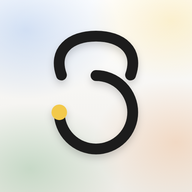
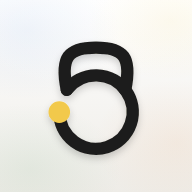
Ícono nuevo de la app (kettlebell de asa más plana) en pantalla de inicio, intro y ventanas; intro con degradados y sombras más suaves y nombre en mayúsculas con «Método» en cursiva
Claude-Session: https://claude.ai/code/session_017q9eB3jcU4JAqbgUHmF9x1

diff --git a/index.html b/index.html
@@ -46,8 +46,8 @@
     <link rel="apple-touch-startup-image" media="(device-width: 375px) and (device-height: 667px) and (-webkit-device-pixel-ratio: 2) and (orientation: portrait)" href="/arranque/arranque-750x1334.jpg" />
     <link rel="apple-touch-startup-image" media="(device-width: 414px) and (device-height: 736px) and (-webkit-device-pixel-ratio: 3) and (orientation: portrait)" href="/arranque/arranque-1242x2208.jpg" />
     <link rel="apple-touch-startup-image" media="(device-width: 320px) and (device-height: 568px) and (-webkit-device-pixel-ratio: 2) and (orientation: portrait)" href="/arranque/arranque-640x1136.jpg" />
-    <link rel="icon" type="image/png" sizes="192x192" href="/icon-192.png" />
-    <link rel="apple-touch-icon" href="/apple-touch-icon.png" />
+    <link rel="icon" type="image/png" sizes="192x192" href="/icon-192.png?v=4" />
+    <link rel="apple-touch-icon" href="/apple-touch-icon.png?v=4" />
 
     <title>Entrena con Método</title>
     <script>
@@ -301,10 +301,10 @@
          y el resto de la pantalla queda crema limpio (antes llenaban toda la
          pantalla, pálidas y con velo blanco: se veía como niebla lavada). */
       #splash2 .m { position: absolute; width: 250px; height: 220px; margin: -110px 0 0 -125px; filter: blur(26px); opacity: 0; will-change: transform, opacity; }
-      #splash2 .m1 { background: radial-gradient(closest-side, rgba(60,123,214,.62), rgba(60,123,214,0)); border-radius: 48% 52% 44% 56% / 55% 42% 58% 45%; --x: -80px; --y: -78px; --s: 1.25; }
-      #splash2 .m2 { background: radial-gradient(closest-side, rgba(242,201,76,.7), rgba(242,201,76,0)); border-radius: 56% 44% 52% 48% / 46% 56% 44% 54%; --x: 82px; --y: -74px; --s: 1.15; }
-      #splash2 .m3 { background: radial-gradient(closest-side, rgba(70,150,90,.58), rgba(70,150,90,0)); border-radius: 44% 56% 58% 42% / 52% 48% 52% 48%; --x: -80px; --y: 82px; --s: 1.25; }
-      #splash2 .m4 { background: radial-gradient(closest-side, rgba(238,132,52,.58), rgba(238,132,52,0)); border-radius: 52% 48% 46% 54% / 44% 56% 46% 54%; --x: 84px; --y: 80px; --s: 1.15; }
+      #splash2 .m1 { background: radial-gradient(closest-side, rgba(60,123,214,.30), rgba(60,123,214,0)); border-radius: 48% 52% 44% 56% / 55% 42% 58% 45%; --x: -80px; --y: -78px; --s: 1.25; }
+      #splash2 .m2 { background: radial-gradient(closest-side, rgba(242,201,76,.34), rgba(242,201,76,0)); border-radius: 56% 44% 52% 48% / 46% 56% 44% 54%; --x: 82px; --y: -74px; --s: 1.15; }
+      #splash2 .m3 { background: radial-gradient(closest-side, rgba(70,150,90,.27), rgba(70,150,90,0)); border-radius: 44% 56% 58% 42% / 52% 48% 52% 48%; --x: -80px; --y: 82px; --s: 1.25; }
+      #splash2 .m4 { background: radial-gradient(closest-side, rgba(238,132,52,.27), rgba(238,132,52,0)); border-radius: 52% 48% 46% 54% / 44% 56% 46% 54%; --x: 84px; --y: 80px; --s: 1.15; }
       #splash2 .plano { position: absolute; inset: 0; background: #F3F1EB; opacity: 0; }
       /* El piso: en algunos iPhone la pantalla útil termina unos 50 px antes
          del borde y lo que hay debajo se corta con una línea recta (se veía
@@ -330,10 +330,10 @@
          cuatro colores se reparten suaves en sus esquinas, con su luz y una
          sombra de color corta, como los blobs de las cabeceras. */
       html.intro-prueba #splash2 .dentro i { width: 118px; height: 118px; filter: blur(16px); }
-      html.intro-prueba #splash2 .dentro .d1 { left: -46px; top: -46px; background: radial-gradient(closest-side, rgba(60,123,214,.30), rgba(60,123,214,0)); }
-      html.intro-prueba #splash2 .dentro .d2 { right: -46px; top: -46px; background: radial-gradient(closest-side, rgba(242,201,76,.32), rgba(242,201,76,0)); }
-      html.intro-prueba #splash2 .dentro .d3 { left: -46px; bottom: -46px; background: radial-gradient(closest-side, rgba(70,150,90,.28), rgba(70,150,90,0)); }
-      html.intro-prueba #splash2 .dentro .d4 { right: -46px; bottom: -46px; background: radial-gradient(closest-side, rgba(238,132,52,.30), rgba(238,132,52,0)); }
+      html.intro-prueba #splash2 .dentro .d1 { left: -46px; top: -46px; background: radial-gradient(closest-side, rgba(60,123,214,.22), rgba(60,123,214,0)); }
+      html.intro-prueba #splash2 .dentro .d2 { right: -46px; top: -46px; background: radial-gradient(closest-side, rgba(242,201,76,.24), rgba(242,201,76,0)); }
+      html.intro-prueba #splash2 .dentro .d3 { left: -46px; bottom: -46px; background: radial-gradient(closest-side, rgba(70,150,90,.20), rgba(70,150,90,0)); }
+      html.intro-prueba #splash2 .dentro .d4 { right: -46px; bottom: -46px; background: radial-gradient(closest-side, rgba(238,132,52,.22), rgba(238,132,52,0)); }
       /* ── Intro (opción C, «cristal»): sobre el blob blanco va una capa de
          vidrio con la misma forma recortada (nunca un cuadrado): luz arriba a
          la izquierda, reflejo elíptico, franja de luz diagonal, sombra interna
@@ -374,7 +374,7 @@
       #splash2 .disco { position: absolute; left: 50%; top: var(--centro, 46%); width: 184px; height: 184px; margin: -92px 0 0 -92px; overflow: visible;
         filter: drop-shadow(0 22px 34px rgba(30,30,40,.14)) drop-shadow(0 3px 8px rgba(30,30,40,.05));
         opacity: 0; transform: rotate(-12deg) scale(.55); will-change: transform, opacity; }
-      html.intro-prueba #splash2 .disco { filter: drop-shadow(0 18px 30px rgba(60,123,214,.13)) drop-shadow(0 10px 22px rgba(238,132,52,.10)) drop-shadow(0 2px 4px rgba(30,30,40,.06)); }
+      html.intro-prueba #splash2 .disco { filter: drop-shadow(0 10px 18px rgba(60,123,214,.07)) drop-shadow(0 6px 14px rgba(238,132,52,.05)) drop-shadow(0 2px 4px rgba(30,30,40,.05)); }
       html.intro-prueba #splash2 .escena { transform: scale(.76); }
       html.intro-prueba body.app-ready #splash2 .escena { transform: scale(.9); }
       #splash2 .escena3d { position: absolute; left: 50%; top: var(--centro, 46%); width: 120px; height: 120px; margin: -60px 0 0 -60px; perspective: 500px; }
@@ -430,12 +430,12 @@
          reflejo (se probó y se quitó). Entran con la secuencia y se van con
          todo lo demás (body.app-ready). */
       #splash2 .op-sb, #splash2 .op-st { display: none; }
-      html.intro-prueba #splash2 .op-sb { display: block; position: absolute; left: 50%; top: calc(60px + var(--centro, 46%) + 67px); width: 157px; height: 22px; margin-left: -78px; border-radius: 50%; background: radial-gradient(closest-side, rgba(31,31,31,.32), rgba(31,31,31,0)); filter: blur(4px); opacity: 0; }
-      html.intro-prueba #splash2 .op-st { display: block; position: absolute; z-index: 2; left: 50%; top: calc(60px + var(--centro, 46%) + 112px); width: 233px; height: 16px; margin-left: -117px; border-radius: 50%; background: radial-gradient(closest-side, rgba(31,31,31,.22), rgba(31,31,31,0)); filter: blur(5px); opacity: 0; }
+      html.intro-prueba #splash2 .op-sb { display: block; position: absolute; left: 50%; top: calc(60px + var(--centro, 46%) + 60px); width: 112px; height: 16px; margin-left: -56px; border-radius: 50%; background: radial-gradient(closest-side, rgba(31,31,31,.18), rgba(31,31,31,0)); filter: blur(4px); opacity: 0; }
+      html.intro-prueba #splash2 .op-st { display: block; position: absolute; z-index: 2; left: 50%; top: calc(60px + var(--centro, 46%) + 112px); width: 200px; height: 16px; margin-left: -100px; border-radius: 50%; background: radial-gradient(closest-side, rgba(31,31,31,.09), rgba(31,31,31,0)); filter: blur(7px); opacity: 0; }
       html.intro-prueba.intro-anda #splash2 .op-sb { animation: s2aparece .7s ease .7s forwards; }
       html.intro-prueba.intro-anda #splash2 .op-st { animation: s2aparece .9s ease 1.3s forwards; }
       html.intro-prueba.intro-anda #splash2 .nombre { animation: s2sombraNombre .9s ease 1.3s forwards; }
-      @keyframes s2sombraNombre { from { filter: drop-shadow(0 3px 3px rgba(31,31,31,0)); } to { filter: drop-shadow(0 3px 3px rgba(31,31,31,.14)); } }
+      @keyframes s2sombraNombre { from { filter: drop-shadow(0 2px 3px rgba(31,31,31,0)); } to { filter: drop-shadow(0 2px 3px rgba(31,31,31,.06)); } }
       /* El nombre, un punto más grande y con el trazo más liviano (el borde
          del color del fondo le quita medio pelo al contorno). */
       html.intro-prueba #splash2 .nombre { transform: translateY(-22px) scale(.55); }
@@ -535,11 +535,11 @@
         <div class="escena3d"><svg class="marca" viewBox="0 0 512 512" fill="none" aria-hidden="true"><defs>
           <linearGradient id="s2t" x1="0" y1="0" x2="0" y2="1"><stop offset="0" stop-color="#3B3A37"/><stop offset="1" stop-color="#1F1E1C"/></linearGradient>
 </defs>
-          <g transform="translate(256 262) scale(.9) translate(-256 -248)" fill="none" stroke="url(#s2t)" stroke-width="40" stroke-linecap="round">
-            <path class="traza t1" pathLength="100" d="M128 162 C96 72 160 18 256 18 C352 18 416 72 384 162"/><path class="traza t2" pathLength="100" d="M256 164 A136 136 0 1 1 120 300"/></g>
-          <g transform="translate(256 262) scale(.9) translate(-256 -248)">
-            <circle class="halo" cx="120" cy="300" r="28.8" fill="#F2C94C"/>
-            <circle class="punto" cx="120" cy="300" r="28.8" fill="#F2C94C"/></g></svg></div>
+          <g transform="translate(256 262) scale(0.900) translate(-256 -248.7)" fill="none" stroke="url(#s2t)" stroke-width="46" stroke-linecap="round">
+            <path class="traza t1" pathLength="100" d="M148.0 217.3 C122.7 96.0 153.1 61.3 256 61.3 C358.9 61.3 389.3 96.0 364.0 217.3"/><path class="traza t2" pathLength="100" d="M148.0 217.3 A136 136 0 1 1 120.0 300.0"/></g>
+          <g transform="translate(256 262) scale(0.900) translate(-256 -248.7)">
+            <circle class="halo" cx="120.0" cy="300.0" r="40" fill="#F2C94C"/>
+            <circle class="punto" cx="120.0" cy="300.0" r="40" fill="#F2C94C"/></g></svg></div>
       </div>
       <!-- El piso va FUERA de .escena: .escena lleva will-change: transform y
            eso atrapa a cualquier fixed de adentro (quedaba 200 px por debajo
@@ -548,7 +548,7 @@
            una vez): no es texto. No depende de ninguna fuente ni de los
            ajustes de texto de la app, que al cargarse lo redibujaban más
            grueso y movido por un instante. Dibuja como el blob: geometría. -->
-      <svg class="nombre" viewBox="0 0 390 100" width="390" height="100" role="img" aria-label="Entrena con Método"><g class="linea l1" transform="translate(12.25 34.80)"><path fill="#1D1D1F" d="M2.72 0V-28H20.95V-22.1H9.15V-16.98H19.03V-11.23H9.15V-5.9H21.18V0Z M24.14 0V-20H30.02L30.27 -17.42Q31.24 -18.9 32.69 -19.69Q34.14 -20.48 35.93 -20.48Q38.34 -20.48 39.98 -19.51Q41.62 -18.54 42.44 -16.53Q43.27 -14.52 43.26 -11.38V0H37.02V-10.24Q37.02 -11.83 36.66 -12.77Q36.3 -13.7 35.63 -14.15Q34.96 -14.59 34.02 -14.62Q32.23 -14.69 31.3 -13.66Q30.38 -12.63 30.38 -10.57V0Z M54.25 0.48Q50.72 0.48 48.97 -1.22Q47.22 -2.92 47.22 -6.08V-14.76H44.1V-20H47.22V-26.24H53.46V-20H58.02V-14.76H53.46V-7.65Q53.46 -6.43 53.9 -5.87Q54.34 -5.3 55.27 -5.3Q55.62 -5.3 56.1 -5.49Q56.58 -5.68 56.98 -5.96L59.13 -1.38Q58.18 -0.62 56.85 -0.07Q55.52 0.48 54.25 0.48Z M60.81 0V-20H67.05V-16.29Q68.3 -18.17 70.21 -19.12Q72.11 -20.08 74.13 -20.08V-14.01Q72.27 -14.01 70.65 -13.61Q69.03 -13.22 68.04 -12.38Q67.05 -11.54 67.05 -10.27V0Z M84.91 0.48Q81.81 0.48 79.41 -0.85Q77.01 -2.18 75.65 -4.54Q74.29 -6.9 74.29 -10Q74.29 -13.1 75.66 -15.46Q77.03 -17.82 79.44 -19.15Q81.85 -20.48 84.99 -20.48Q87.85 -20.48 90.13 -19.12Q92.41 -17.76 93.75 -15.07Q95.09 -12.38 95.09 -8.4H80.77Q80.97 -6.66 82.18 -5.64Q83.39 -4.62 85.09 -4.62Q86.57 -4.62 87.58 -5.28Q88.59 -5.94 88.99 -6.96L94.51 -5.06Q93.73 -3.18 92.27 -1.94Q90.81 -0.7 88.92 -0.11Q87.03 0.48 84.91 0.48ZM80.93 -12.56H88.57Q88.41 -13.74 87.81 -14.44Q87.21 -15.14 86.41 -15.45Q85.61 -15.76 84.81 -15.76Q84.03 -15.76 83.2 -15.46Q82.37 -15.16 81.74 -14.46Q81.11 -13.76 80.93 -12.56Z M96.33 0V-20H102.22L102.46 -17.42Q103.43 -18.9 104.88 -19.69Q106.33 -20.48 108.12 -20.48Q110.54 -20.48 112.17 -19.51Q113.81 -18.54 114.64 -16.53Q115.46 -14.52 115.46 -11.38V0H109.22V-10.24Q109.22 -11.83 108.85 -12.77Q108.49 -13.7 107.82 -14.15Q107.15 -14.59 106.21 -14.62Q104.42 -14.69 103.5 -13.66Q102.57 -12.63 102.57 -10.57V0Z M124.28 0.48Q120.74 0.48 118.78 -1.11Q116.82 -2.7 116.82 -5.64Q116.82 -8.8 118.86 -10.36Q120.9 -11.92 124.58 -11.92H129.46Q129.26 -13.5 128.52 -14.4Q127.78 -15.3 126.14 -15.3Q125 -15.3 124.16 -14.78Q123.32 -14.26 122.74 -13.36L117.28 -15.16Q117.98 -16.62 119.15 -17.83Q120.32 -19.04 122.04 -19.76Q123.76 -20.48 126.06 -20.48Q129.18 -20.48 131.33 -19.32Q133.48 -18.16 134.57 -16.07Q135.66 -13.98 135.64 -11.16L135.58 0H129.74L129.66 -2.04Q128.84 -0.8 127.48 -0.16Q126.12 0.48 124.28 0.48ZM125.66 -4.24Q126.8 -4.24 127.68 -4.72Q128.56 -5.2 129.06 -6.02Q129.56 -6.84 129.56 -7.8V-7.9H126.92Q124.92 -7.9 124.04 -7.35Q123.16 -6.8 123.16 -5.8Q123.16 -5.06 123.82 -4.65Q124.48 -4.24 125.66 -4.24Z M155.95 0.48Q152.75 0.48 150.26 -0.86Q147.76 -2.2 146.36 -4.58Q144.96 -6.95 144.96 -10Q144.96 -13.08 146.36 -15.44Q147.76 -17.8 150.22 -19.14Q152.68 -20.48 155.87 -20.48Q158.96 -20.48 161.52 -18.92Q164.07 -17.35 165.2 -14.41L159.28 -12.39Q158.84 -13.38 157.82 -13.99Q156.8 -14.6 155.55 -14.6Q154.32 -14.6 153.38 -14.02Q152.44 -13.44 151.9 -12.4Q151.36 -11.35 151.36 -10Q151.36 -8.65 151.9 -7.62Q152.44 -6.59 153.42 -6Q154.4 -5.4 155.63 -5.4Q156.86 -5.4 157.87 -6.04Q158.88 -6.67 159.34 -7.7L165.27 -5.72Q164.13 -2.74 161.59 -1.13Q159.05 0.48 155.95 0.48Z M176.18 0.48Q173.04 0.48 170.63 -0.86Q168.21 -2.2 166.84 -4.56Q165.47 -6.92 165.47 -10Q165.47 -13.08 166.82 -15.44Q168.17 -17.8 170.58 -19.14Q173 -20.48 176.09 -20.48Q179.22 -20.48 181.64 -19.14Q184.05 -17.8 185.4 -15.44Q186.76 -13.08 186.76 -10Q186.76 -6.92 185.41 -4.56Q184.06 -2.2 181.66 -0.86Q179.27 0.48 176.18 0.48ZM176.17 -5.27Q177.41 -5.27 178.34 -5.88Q179.28 -6.48 179.82 -7.54Q180.36 -8.61 180.36 -10Q180.36 -11.39 179.82 -12.46Q179.28 -13.52 178.31 -14.12Q177.34 -14.73 176.1 -14.73Q174.86 -14.73 173.91 -14.12Q172.95 -13.52 172.41 -12.46Q171.87 -11.4 171.87 -10.01Q171.87 -8.62 172.41 -7.56Q172.96 -6.5 173.93 -5.88Q174.91 -5.27 176.17 -5.27Z M188.4 0V-20H194.28L194.53 -17.42Q195.5 -18.9 196.95 -19.69Q198.4 -20.48 200.19 -20.48Q202.6 -20.48 204.24 -19.51Q205.88 -18.54 206.7 -16.53Q207.53 -14.52 207.52 -11.38V0H201.28V-10.24Q201.28 -11.83 200.92 -12.77Q200.56 -13.7 199.89 -14.15Q199.22 -14.59 198.28 -14.62Q196.49 -14.69 195.56 -13.66Q194.64 -12.63 194.64 -10.57V0Z"/></g><g class="linea metodo l2" transform="translate(232 34.80)"><path fill="#1D1D1F" d="M2.72 0V-28H9.79L17.26 -16.96L24.71 -28H31.78V0H25.35V-18L17.28 -6.17L9.15 -17.98V0Z M44.72 0.48Q41.62 0.48 39.22 -0.85Q36.82 -2.18 35.46 -4.54Q34.1 -6.9 34.1 -10Q34.1 -13.1 35.47 -15.46Q36.84 -17.82 39.25 -19.15Q41.66 -20.48 44.8 -20.48Q47.66 -20.48 49.94 -19.12Q52.22 -17.76 53.56 -15.07Q54.9 -12.38 54.9 -8.4H40.58Q40.78 -6.66 41.99 -5.64Q43.2 -4.62 44.9 -4.62Q46.38 -4.62 47.39 -5.28Q48.4 -5.94 48.8 -6.96L54.32 -5.06Q53.54 -3.18 52.08 -1.94Q50.62 -0.7 48.73 -0.11Q46.84 0.48 44.72 0.48ZM40.74 -12.56H48.38Q48.22 -13.74 47.62 -14.44Q47.02 -15.14 46.22 -15.45Q45.42 -15.76 44.62 -15.76Q43.84 -15.76 43.01 -15.46Q42.18 -15.16 41.55 -14.46Q40.92 -13.76 40.74 -12.56ZM41.17 -22.32 45.64 -28H52.4L47.22 -22.32Z M64.78 0.48Q61.26 0.48 59.5 -1.22Q57.75 -2.92 57.75 -6.08V-14.76H54.64V-20H57.75V-26.24H63.99V-20H68.56V-14.76H63.99V-7.65Q63.99 -6.43 64.43 -5.87Q64.87 -5.3 65.81 -5.3Q66.16 -5.3 66.64 -5.49Q67.11 -5.68 67.51 -5.96L69.66 -1.38Q68.71 -0.62 67.38 -0.07Q66.06 0.48 64.78 0.48Z M81.01 0.48Q77.88 0.48 75.46 -0.86Q73.05 -2.2 71.68 -4.56Q70.3 -6.92 70.3 -10Q70.3 -13.08 71.65 -15.44Q73 -17.8 75.42 -19.14Q77.83 -20.48 80.92 -20.48Q84.06 -20.48 86.47 -19.14Q88.89 -17.8 90.24 -15.44Q91.59 -13.08 91.59 -10Q91.59 -6.92 90.24 -4.56Q88.89 -2.2 86.5 -0.86Q84.1 0.48 81.01 0.48ZM81.01 -5.27Q82.24 -5.27 83.18 -5.88Q84.12 -6.48 84.65 -7.54Q85.19 -8.61 85.19 -10Q85.19 -11.39 84.65 -12.46Q84.11 -13.52 83.15 -14.12Q82.18 -14.73 80.94 -14.73Q79.7 -14.73 78.74 -14.12Q77.79 -13.52 77.24 -12.46Q76.7 -11.4 76.7 -10.01Q76.7 -8.62 77.25 -7.56Q77.79 -6.5 78.77 -5.88Q79.75 -5.27 81.01 -5.27Z M101.23 0.48Q98.43 0.48 96.41 -0.78Q94.38 -2.04 93.29 -4.4Q92.19 -6.77 92.19 -10Q92.19 -13.27 93.29 -15.62Q94.38 -17.96 96.41 -19.22Q98.43 -20.48 101.23 -20.48Q103.1 -20.48 104.53 -19.75Q105.97 -19.02 106.9 -17.64V-28H113.14V0H107.21L107.02 -2.52Q106.1 -1.08 104.63 -0.3Q103.16 0.48 101.23 0.48ZM102.86 -5.26Q103.98 -5.26 104.86 -5.8Q105.73 -6.33 106.26 -7.3Q106.8 -8.26 106.9 -9.48V-10.51Q106.8 -11.74 106.26 -12.69Q105.73 -13.64 104.84 -14.17Q103.95 -14.7 102.82 -14.7Q101.64 -14.7 100.7 -14.11Q99.75 -13.51 99.22 -12.45Q98.69 -11.38 98.69 -10Q98.69 -8.62 99.24 -7.55Q99.79 -6.49 100.74 -5.88Q101.68 -5.26 102.86 -5.26Z M125.49 0.48Q122.35 0.48 119.93 -0.86Q117.52 -2.2 116.15 -4.56Q114.78 -6.92 114.78 -10Q114.78 -13.08 116.13 -15.44Q117.47 -17.8 119.89 -19.14Q122.31 -20.48 125.4 -20.48Q128.53 -20.48 130.94 -19.14Q133.36 -17.8 134.71 -15.44Q136.06 -13.08 136.06 -10Q136.06 -6.92 134.71 -4.56Q133.36 -2.2 130.97 -0.86Q128.58 0.48 125.49 0.48ZM125.48 -5.27Q126.71 -5.27 127.65 -5.88Q128.59 -6.48 129.13 -7.54Q129.66 -8.61 129.66 -10Q129.66 -11.39 129.12 -12.46Q128.58 -13.52 127.62 -14.12Q126.65 -14.73 125.41 -14.73Q124.17 -14.73 123.21 -14.12Q122.26 -13.52 121.72 -12.46Q121.18 -11.4 121.18 -10.01Q121.18 -8.62 121.72 -7.56Q122.26 -6.5 123.24 -5.88Q124.22 -5.27 125.48 -5.27Z"/><path class="pto" fill="#EDB929" d="M141.01 0.59Q139.51 0.59 138.43 -0.49Q137.34 -1.58 137.34 -3.07Q137.34 -4.57 138.43 -5.65Q139.51 -6.74 141.01 -6.74Q142.5 -6.74 143.59 -5.65Q144.67 -4.57 144.67 -3.07Q144.67 -1.58 143.59 -0.49Q142.5 0.59 141.01 0.59Z"/></g></svg>
+      <svg class="nombre" viewBox="0 0 390 100" width="390" height="100" role="img" aria-label="Entrena con Método"><g class="linea l1"><path fill="#1D1D1F" d="M2.01 34.8V12.4H16.6V17.14H7.16V21.23H15.06V25.81H7.16V30.06H16.76V34.8Z M20.79 34.8V12.4H26.2L36.02 26.06V12.4H41.18V34.8H36.02L25.94 20.75V34.8Z M50.39 34.8V17.14H43.86V12.4H62.04V17.14H55.51V34.8Z M64.7 34.8V12.4H73.5Q75.93 12.4 77.82 13.34Q79.7 14.29 80.78 15.97Q81.85 17.65 81.85 19.82Q81.85 22.03 80.71 23.74Q79.58 25.46 77.69 26.35L82.74 34.8H76.86L72.57 27.28Q72.38 27.28 72.17 27.28Q71.96 27.28 71.77 27.28H69.85V34.8ZM69.85 22.54H73.34Q74.23 22.54 74.94 22.19Q75.64 21.84 76.04 21.22Q76.44 20.59 76.44 19.82Q76.44 18.64 75.56 17.87Q74.68 17.1 73.24 17.1H69.85Z M85.62 34.8V12.4H100.22V17.14H90.78V21.23H98.68V25.81H90.78V30.06H100.38V34.8Z M104.41 34.8V12.4H109.82L119.64 26.06V12.4H124.79V34.8H119.64L109.56 20.75V34.8Z M127.22 34.8 135.93 12.4H141.43L150.14 34.8H144.7L143.06 30.54H134.3L132.66 34.8ZM135.96 26H141.37L138.68 18.83Z M170.17 35.18Q166.84 35.18 164.3 33.7Q161.75 32.21 160.3 29.6Q158.84 26.99 158.84 23.6Q158.84 20.21 160.3 17.6Q161.75 14.99 164.3 13.5Q166.84 12.02 170.17 12.02Q172.6 12.02 174.63 12.86Q176.66 13.71 178.15 15.25Q179.64 16.78 180.44 18.8L175.61 20.43Q175.13 19.31 174.31 18.48Q173.5 17.65 172.46 17.2Q171.42 16.75 170.17 16.75Q168.41 16.75 167.03 17.62Q165.66 18.48 164.89 20.03Q164.12 21.58 164.12 23.6Q164.12 25.62 164.9 27.17Q165.69 28.72 167.08 29.6Q168.47 30.48 170.26 30.48Q171.58 30.48 172.6 30Q173.62 29.52 174.38 28.66Q175.13 27.79 175.67 26.67L180.5 28.3Q179.74 30.35 178.23 31.9Q176.73 33.46 174.68 34.32Q172.63 35.18 170.17 35.18Z M193.88 35.18Q190.42 35.18 187.77 33.7Q185.11 32.21 183.61 29.6Q182.1 26.99 182.1 23.63Q182.1 20.24 183.61 17.63Q185.11 15.02 187.75 13.54Q190.39 12.05 193.82 12.05Q197.24 12.05 199.88 13.54Q202.52 15.02 204.02 17.63Q205.53 20.24 205.53 23.63Q205.53 26.99 204.04 29.6Q202.55 32.21 199.93 33.7Q197.3 35.18 193.88 35.18ZM193.88 30.45Q195.77 30.45 197.21 29.58Q198.65 28.72 199.45 27.17Q200.25 25.62 200.25 23.63Q200.25 21.62 199.42 20.06Q198.58 18.51 197.14 17.63Q195.7 16.75 193.82 16.75Q191.93 16.75 190.49 17.63Q189.05 18.51 188.22 20.06Q187.38 21.62 187.38 23.63Q187.38 25.62 188.22 27.17Q189.05 28.72 190.52 29.58Q191.99 30.45 193.88 30.45Z M208.66 34.8V12.4H214.07L223.9 26.06V12.4H229.05V34.8H223.9L213.82 20.75V34.8Z"/></g><g class="linea metodo l2"><path fill="#1D1D1F" d="M239.29 34.8 243.03 12.4H249.53L253.66 20.4L260.34 12.4H266.97L263.22 34.8H257.3L259.48 21.74L252.18 30.32L247.45 21.39L245.21 34.8Z M267.06 34.8 270.81 12.4H285.82L284.92 17.84H275.83L275.29 20.94H282.68L281.78 26.22H274.42L273.88 29.36H283.22L282.3 34.8ZM274.94 10.67 278.46 6H284.54L280.38 10.67Z M290.78 34.8 293.62 17.84H287.29L288.18 12.4H306.74L305.85 17.84H299.54L296.7 34.8Z M317.56 35.18Q314.84 35.18 312.58 34.27Q310.33 33.36 308.78 31.68Q307.22 30 306.57 27.71Q305.91 25.42 306.39 22.64Q306.94 19.44 308.7 17.06Q310.46 14.67 313.1 13.34Q315.74 12.02 318.9 12.02Q321.62 12.02 323.86 12.93Q326.1 13.84 327.66 15.52Q329.21 17.2 329.86 19.52Q330.52 21.84 330.04 24.62Q329.53 27.76 327.77 30.14Q326.01 32.53 323.37 33.86Q320.73 35.18 317.56 35.18ZM317.82 29.74Q319.38 29.74 320.68 29.04Q321.98 28.34 322.86 27.07Q323.74 25.81 324.02 24.11Q324.34 22.19 323.74 20.69Q323.13 19.18 321.8 18.34Q320.47 17.49 318.65 17.49Q317.08 17.49 315.77 18.19Q314.46 18.9 313.58 20.18Q312.7 21.46 312.41 23.15Q312.09 25.07 312.71 26.56Q313.34 28.05 314.66 28.9Q315.99 29.74 317.82 29.74Z M331.06 34.8 334.81 12.4H342.3Q345.91 12.43 348.5 13.94Q351.1 15.44 352.3 18.02Q353.5 20.59 352.92 23.95Q352.54 26.35 351.29 28.34Q350.04 30.32 348.14 31.76Q346.23 33.2 343.78 34Q341.34 34.8 338.55 34.8ZM337.91 29.2H339.29Q340.7 29.2 341.99 28.77Q343.29 28.34 344.33 27.54Q345.37 26.74 346.06 25.65Q346.74 24.56 346.97 23.25Q347.22 21.68 346.62 20.51Q346.01 19.34 344.66 18.67Q343.32 18 341.37 18H339.8Z M365.91 35.18Q363.19 35.18 360.94 34.27Q358.68 33.36 357.13 31.68Q355.58 30 354.92 27.71Q354.26 25.42 354.74 22.64Q355.29 19.44 357.05 17.06Q358.81 14.67 361.45 13.34Q364.09 12.02 367.26 12.02Q369.98 12.02 372.22 12.93Q374.46 13.84 376.01 15.52Q377.56 17.2 378.22 19.52Q378.87 21.84 378.39 24.62Q377.88 27.76 376.12 30.14Q374.36 32.53 371.72 33.86Q369.08 35.18 365.91 35.18ZM366.17 29.74Q367.74 29.74 369.03 29.04Q370.33 28.34 371.21 27.07Q372.09 25.81 372.38 24.11Q372.7 22.19 372.09 20.69Q371.48 19.18 370.15 18.34Q368.82 17.49 367 17.49Q365.43 17.49 364.12 18.19Q362.81 18.9 361.93 20.18Q361.05 21.46 360.76 23.15Q360.44 25.07 361.06 26.56Q361.69 28.05 363.02 28.9Q364.34 29.74 366.17 29.74Z"/><path class="pto" fill="#EDB929" d="M380.76 30.10a4.70 4.70 0 1 0 9.41 0a4.70 4.70 0 1 0 -9.41 0Z"/></g></svg>
       <div class="op-st"></div>
       <div class="piso"></div>
       <script>

diff --git a/src/VentanaMarca.jsx b/src/VentanaMarca.jsx
@@ -60,10 +60,10 @@ export function IconoApp({ tam = 96 }) {
         <linearGradient id="vm-t" x1="0" y1="0" x2="0" y2="1"><stop offset="0" stopColor="#3B3A37" /><stop offset="1" stopColor="#1F1E1C" /></linearGradient>
         <filter id="vm-s" x="-30%" y="-30%" width="160%" height="170%"><feDropShadow dx="0" dy="14" stdDeviation="14" floodColor="#000" floodOpacity=".16" /></filter>
       </defs>
-      <g transform="translate(256 262) scale(0.9) translate(-256 -248)" fill="none" filter="url(#vm-s)">
-        <path className="vm-traza" d="M128 162 C96 72 160 18 256 18 C352 18 416 72 384 162" pathLength="100" stroke="url(#vm-t)" strokeWidth="40" strokeLinecap="round" />
-        <path className="vm-traza" d="M256 164 A136 136 0 1 1 120 300" pathLength="100" stroke="url(#vm-t)" strokeWidth="40" strokeLinecap="round" />
-        <circle className="vm-punto" cx="120" cy="300" r="28.8" fill={AMARILLO} />
+      <g transform="translate(256 262) scale(0.900) translate(-256 -248.7)" fill="none" filter="url(#vm-s)">
+        <path className="vm-traza" d="M148.0 217.3 C122.7 96.0 153.1 61.3 256 61.3 C358.9 61.3 389.3 96.0 364.0 217.3" pathLength="100" stroke="url(#vm-t)" strokeWidth="46" strokeLinecap="round" />
+        <path className="vm-traza" d="M148.0 217.3 A136 136 0 1 1 120.0 300.0" pathLength="100" stroke="url(#vm-t)" strokeWidth="46" strokeLinecap="round" />
+        <circle className="vm-punto" cx="120.0" cy="300.0" r="40" fill={AMARILLO} />
       </g>
     </svg>
   );

diff --git a/src/CuentaV2.jsx b/src/CuentaV2.jsx
@@ -292,7 +292,7 @@ export default function CuentaV2({ nombre = null, datosAceptados = false, pendie
   } else if (paso === 'avisos') {
     v = { simbolo: I(Bell, '#C95F17'), titulo: <>Activa tus<br /><Color c="naranja">avisos.</Color></>, texto: <>Te aviso cuando <Negrita>tu coach te escriba</Negrita>, te ajuste el plan o te toque entrenar. <Negrita c="naranja">Nada de spam.</Negrita></>, cuerpo: (<>
       <div style={{ background: 'rgba(255,255,255,0.92)', borderRadius: 18, padding: '11px 13px', display: 'flex', gap: 10, alignItems: 'center', boxShadow: '0 6px 16px rgba(0,0,0,0.06)' }}>
-        <img src="/icon-192.png" alt="" width="36" height="36" style={{ borderRadius: 9, flex: 'none' }} />
+        <img src="/icon-192.png?v=4" alt="" width="36" height="36" style={{ borderRadius: 9, flex: 'none' }} />
         <div style={{ flex: 1, minWidth: 0 }}>
           <div style={{ display: 'flex', justifyContent: 'space-between', fontSize: 13, fontWeight: 700 }}>Tu coach<span style={{ fontWeight: 500, color: GRIS }}>ahora</span></div>
           <div style={{ fontSize: 13.5, color: '#3A3A3C', marginTop: 1 }}>Hoy te toca entrenar.</div>
